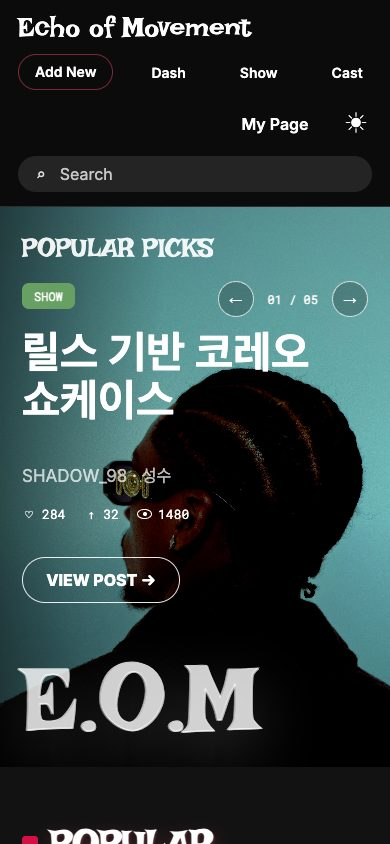
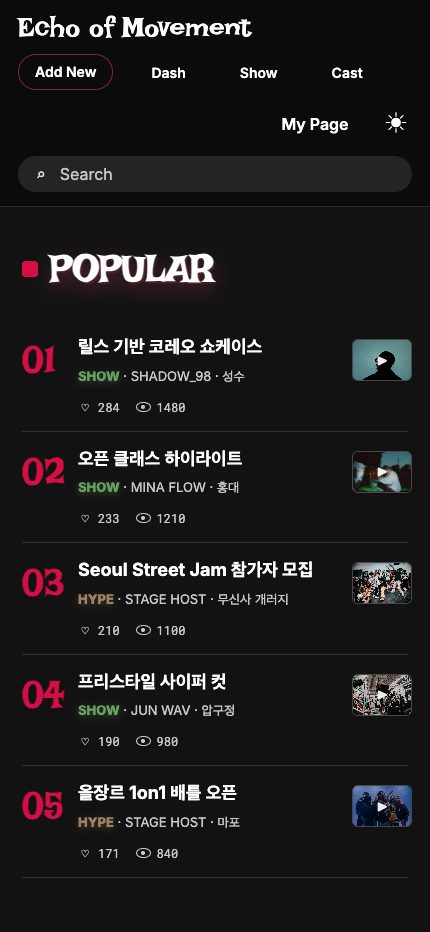
Improve README screenshots for desktop and mobile

diff --git a/README.md b/README.md
@@ -10,9 +10,9 @@
 
 **[E.O.M Figma 목업 보기 →](https://www.figma.com/design/pT04v0r3cxUHGXasokgMQW/E.O.M?node-id=0-1&t=yp0hg0gAGQNN4oUJ-1)**
 
-### 대시보드 · 데스크톱
+### 랜딩 · 움직임을 보여주는 레일
 
-![인기 게시글 캐러셀과 인기 글·태그가 보이는 E.O.M 대시보드](docs/screenshots/dashboard-desktop.jpg)
+![댄서들의 영상과 공연 기록이 카드 레일로 흐르는 랜딩 화면](docs/screenshots/landing-reel-desktop.png)
 
 ## 댄서들의 활동을 한곳에
 
@@ -29,43 +29,53 @@
 
 ## 주요 화면
 
-대시보드에서 추천 게시글과 보드별 활동을 살펴보고, 게시판에서 정렬·탐색한 뒤 상세 화면으로 이동한다. 작성 화면은 입력한 제목·본문·태그를 오른쪽 Live Preview에 반영한다.
+데스크톱에서는 콘텐츠가 보이는 구간을, 모바일에서는 좁은 화면에 맞춰 쌓인 목록과 게시글을 캡처했다.
 
 ### 랜딩 페이지 · 탭 전환
 
-SHOW·CAST·HYPE·LINK 소개 탭을 선택하면 카드와 설명이 전환된다. 아래 화면은 CAST를 선택한 상태다.
+SHOW·CAST·HYPE·LINK 탭을 선택하면 소개 카드와 설명이 전환된다. 아래는 SHOW 카드와 스크롤 영상 연출이다.
 
-![CAST 탭을 선택해 소개 카드와 진행 표시가 바뀐 랜딩 페이지](docs/screenshots/landing-interaction-desktop.jpg)
+![SHOW 소개 카드와 선택 상태가 보이는 랜딩 인터랙션](docs/screenshots/landing-show-desktop.png)
+
+![영상 위의 문구와 회전 미디어 큐브가 보이는 랜딩 인터랙션](docs/screenshots/landing-cube-desktop.png)
+
+### 대시보드 · 인기 글과 최근 활동
+
+인기 게시글, 태그, 활동, 행사와 최근 글을 한 화면에서 탐색한다.
+
+![인기 게시글 목록과 태그·활동·행사가 보이는 대시보드](docs/screenshots/dashboard-feed-desktop.png)
 
 ### 게시글 상세 · 콘텐츠와 참여
 
-게시글 제목·작성자·미디어, 옆의 작성자 프로필과 추천 글을 함께 볼 수 있다.
+게시글 미디어와 본문, 관련 글을 함께 볼 수 있다.
 
-![게시글 제목과 미디어, 작성자 프로필 및 추천 글이 보이는 상세 화면](docs/screenshots/post-detail-desktop.jpg)
+![게시글 미디어와 본문·Instagram 링크 카드가 보이는 상세 화면](docs/screenshots/post-detail-content.jpg)
 
-본문 아래에는 Instagram 링크 카드, 좋아요·저장, 댓글 입력과 목록이 이어진다.
+본문 아래에는 Instagram 링크 카드, 좋아요·저장과 댓글 입력이 이어진다.
 
-![Instagram 링크 카드와 좋아요·저장·댓글 영역이 보이는 상세 화면](docs/screenshots/post-comments-desktop.jpg)
+![Instagram 링크 카드와 좋아요·저장·댓글 영역이 보이는 상세 화면](docs/screenshots/post-detail-actions.jpg)
 
 ### 마이페이지 · 포트폴리오
 
-프로필 정보, 활동 수치, 포트폴리오와 최근 활동을 한 화면에서 확인한다.
+선택한 작품과 최근 활동을 한 화면에서 확인한다.
 
-![프로필과 포트폴리오 및 최근 활동이 보이는 마이페이지](docs/screenshots/my-page-desktop.jpg)
-
-### 모바일 화면 · 390 × 844
-
-같은 페이지를 모바일 너비로 표시한 화면이다. 랜딩, 대시보드, 게시글 상세가 좁은 화면에 맞게 배치된다.
-
-| 랜딩 | 대시보드 | 게시글 상세 |
-|---|---|---|
-| ![모바일 랜딩 화면](docs/screenshots/landing-mobile.jpg) | ![모바일 대시보드 화면](docs/screenshots/dashboard-mobile.jpg) | ![모바일 게시글 상세 화면](docs/screenshots/post-detail-mobile.jpg) |
+![포트폴리오 카드와 최근 활동이 보이는 마이페이지](docs/screenshots/portfolio-desktop.png)
 
 ### 게시판과 글쓰기
 
-| SHOW 게시판 · 다크 테마 | 게시글 작성 · 화이트 테마 · Live Preview |
-|---|---|
-| ![다크 테마의 SHOW 게시판과 보드 필터·정렬](docs/images/show-board.jpg) | ![화이트 테마의 게시글 입력 폼과 실시간 미리보기](docs/images/post-create.jpg) |
+게시판은 정렬과 보드별 탐색을 지원하고, 작성 폼은 입력한 내용을 오른쪽 미리보기에 반영한다.
+
+![SHOW 게시판의 정렬 탭과 게시글 카드가 보이는 화면](docs/screenshots/show-board-desktop.png)
+
+![게시글 작성 폼과 실시간 미리보기에 입력 내용이 반영된 화면](docs/screenshots/post-create-preview-desktop.png)
+
+### 모바일 화면 · 430 × 932
+
+게시판 카드, 대시보드의 인기 글, 게시글 본문이 모바일 너비에서 한 열로 배치된다.
+
+| SHOW 게시판 | 대시보드 | 게시글 상세 |
+|---|---|---|
+| ![모바일 SHOW 게시판 카드](docs/screenshots/board-mobile.jpg) | ![모바일 대시보드 인기 글 목록](docs/screenshots/dashboard-mobile.jpg) | ![모바일 게시글 제목·미디어·본문](docs/screenshots/post-detail-mobile.jpg) |
 
 ### 관리자 대시보드 · 화이트 테마
 
